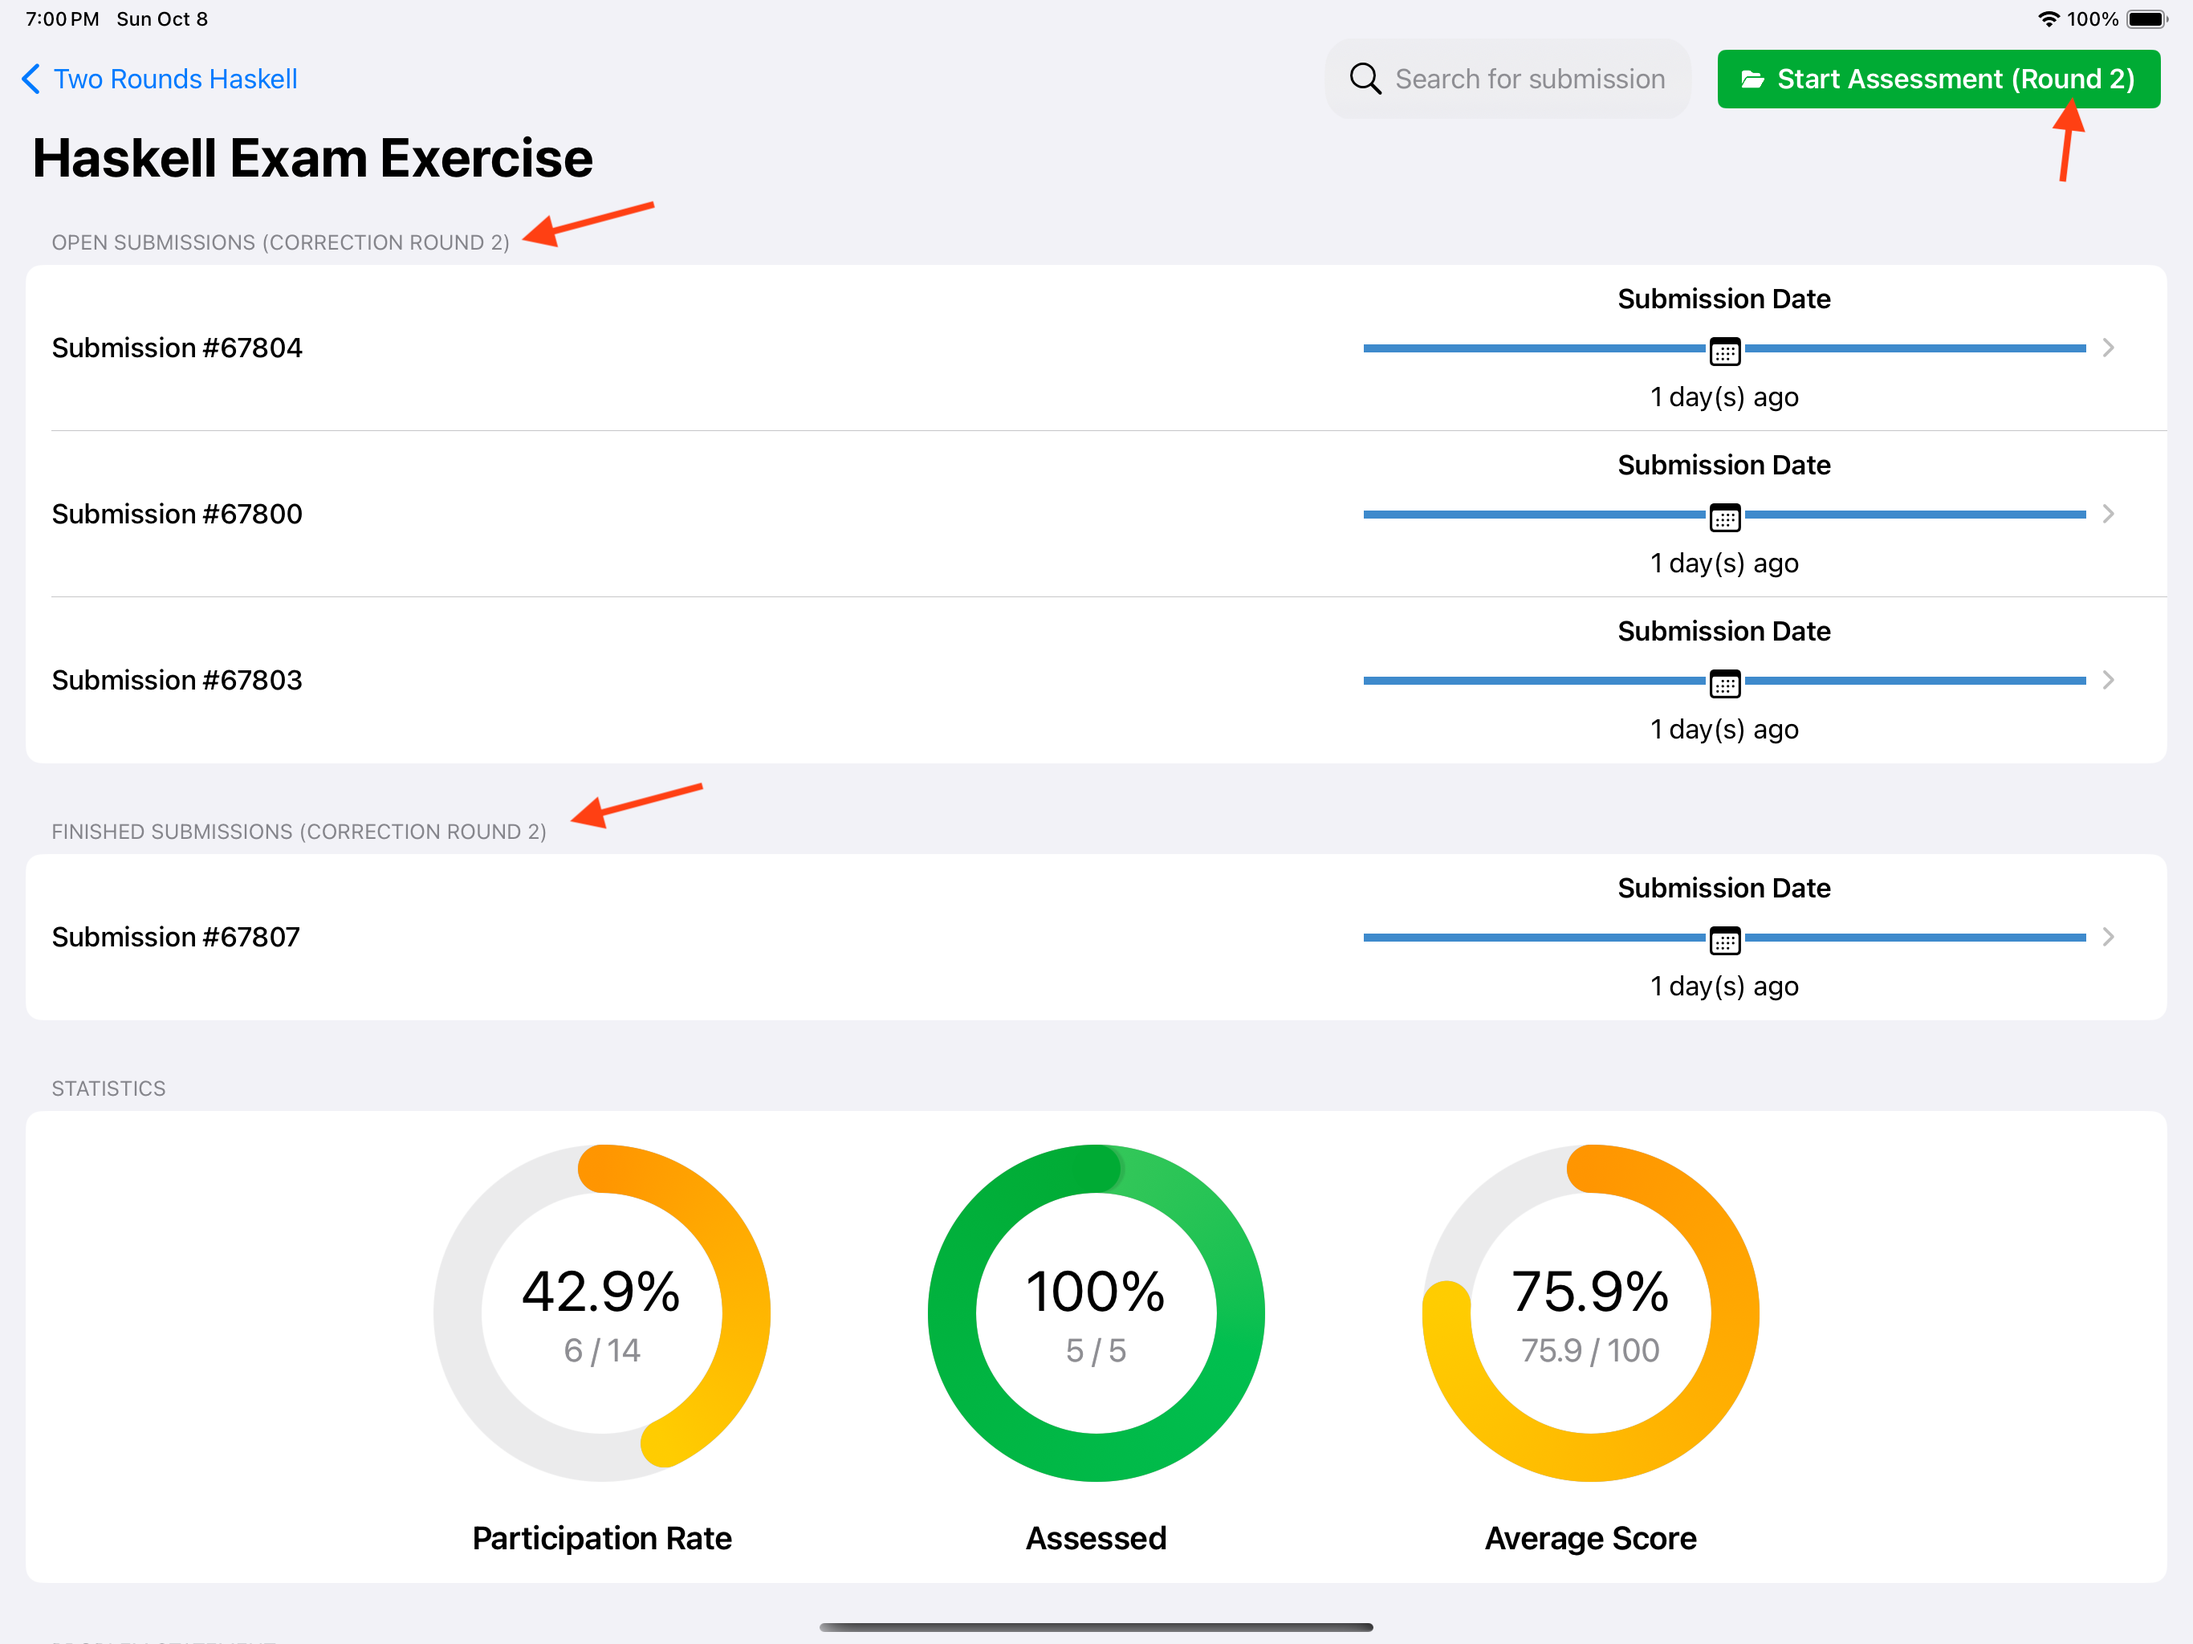
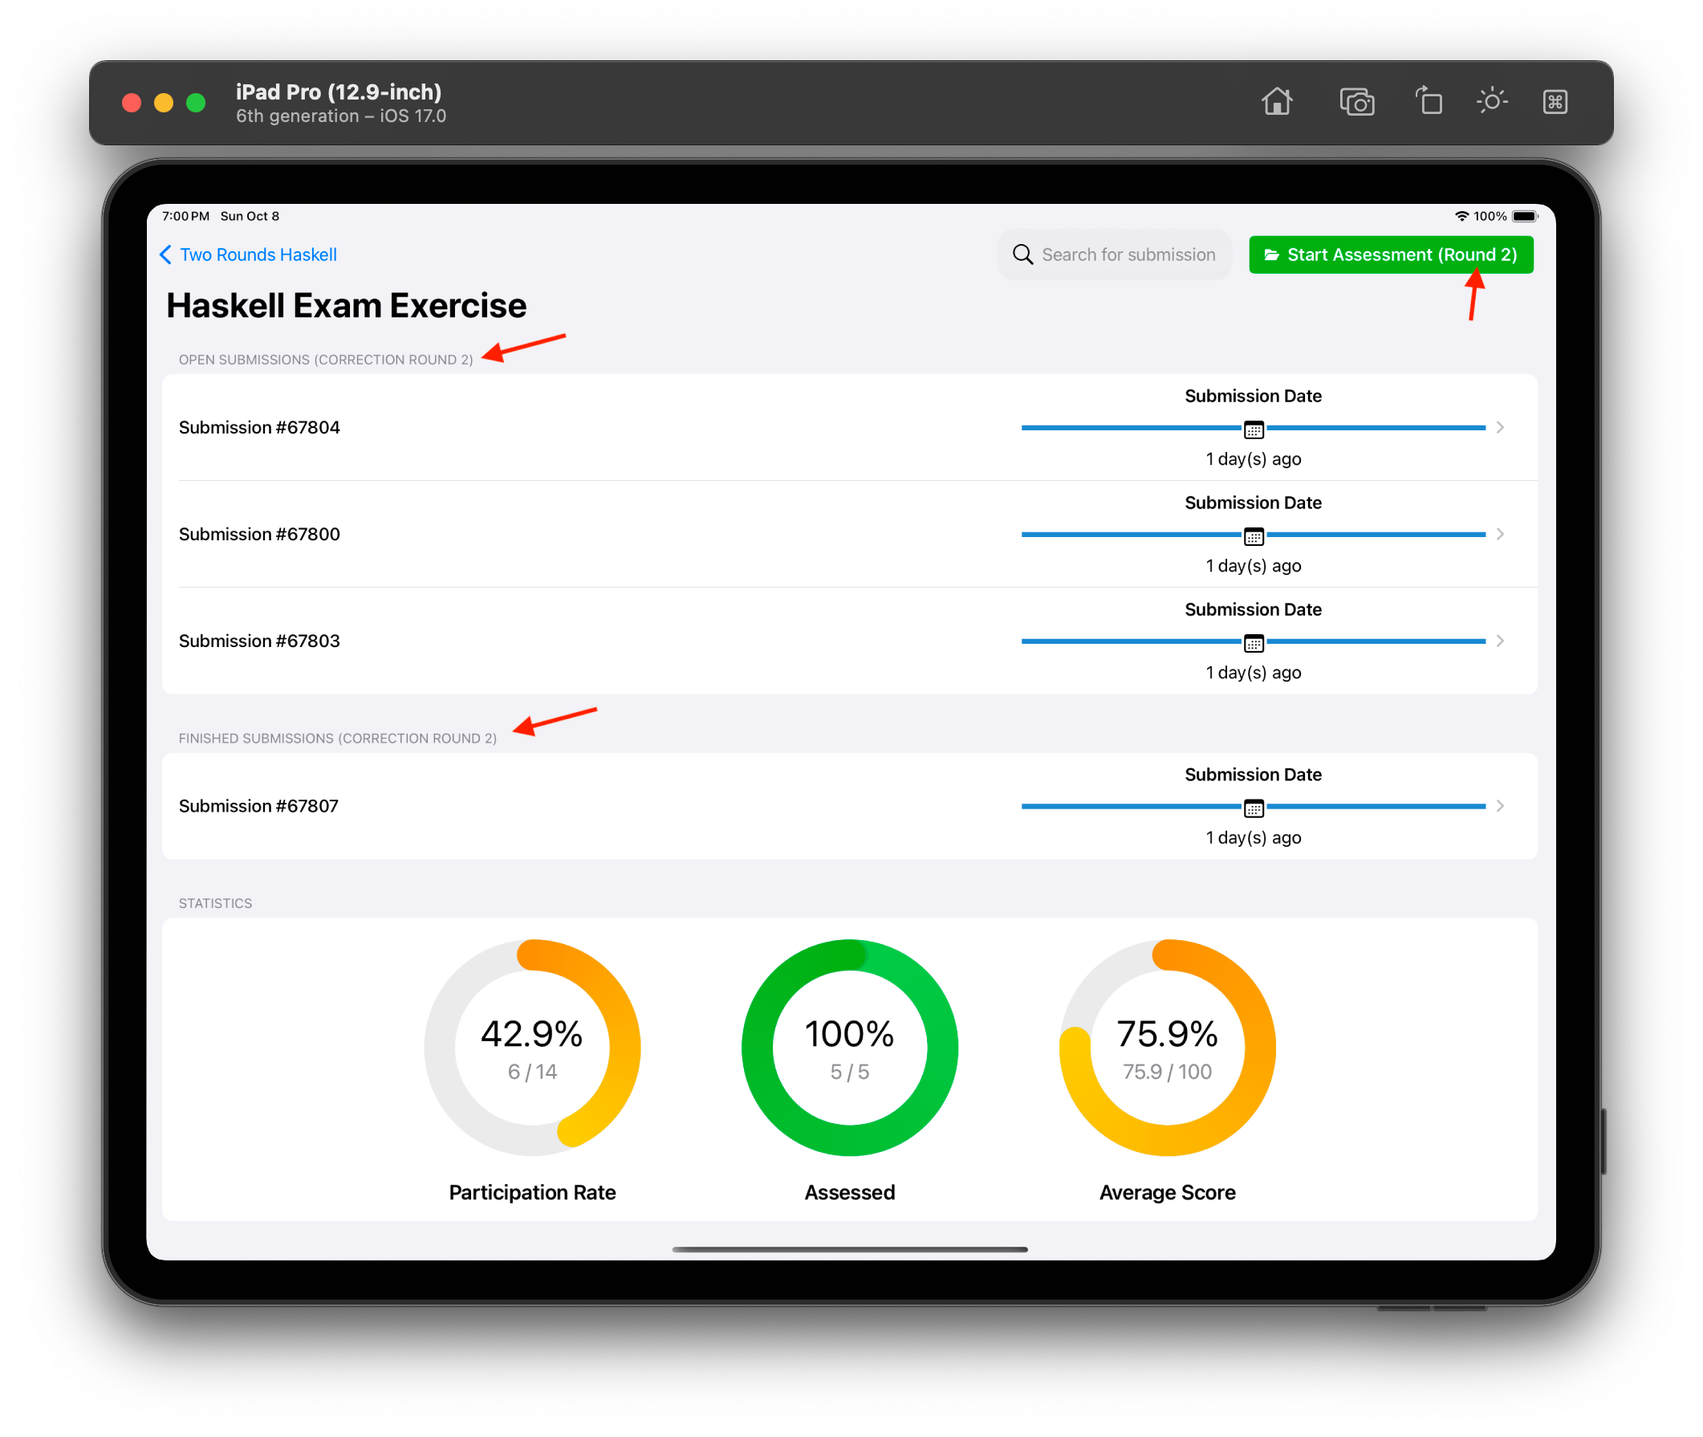
Add general exam mode info; improve screenshots

diff --git a/docs/user/assessment-overview/assessment-overview.rst b/docs/user/assessment-overview/assessment-overview.rst
@@ -34,7 +34,16 @@ Assess Exam Exercises
 ---------------------
 
 Themis supports the assessment of exam exercises as well. To assess an exam exercise, 
-navigate to the relevant exam and select the exercise that you want to assess. 
+navigate to the relevant exam from the course view and select the exercise that you want 
+to assess.
+
+|pic1| → |pic2|
+
+.. |pic1| image:: ./images/course-view-exam-selection.png
+   :width: 50%
+
+.. |pic2| image:: ./images/exam-exercise-selection.png
+   :width: 45%
 
 If the second correction round is enabled and all submissions for the first round are assessed, 
 the **Start Assessment** button changes into **Start Assessment (Round 2)**. In addition, 
@@ -44,16 +53,16 @@ sections appear.
 .. figure:: ./images/2nd-round-exercise-view.png
     :align: center
     :alt: Exercise View in Second Correction Round
-    :width: 95%
+    :width: 85%
 
     Exercise View in Second Correction Round
 
 When performing an assessment in the second round, the assessment view toolbar contains a **Round 2** 
 label.
 
-.. figure:: ./images/2nd-round-assessment-view.png
+.. figure:: ./images/2nd-round-assessment-view-2.png
     :align: center
     :alt: Assessment View in Second Correction Round
-    :width: 95%
+    :width: 85%
 
     Assessment View in Second Correction Round
